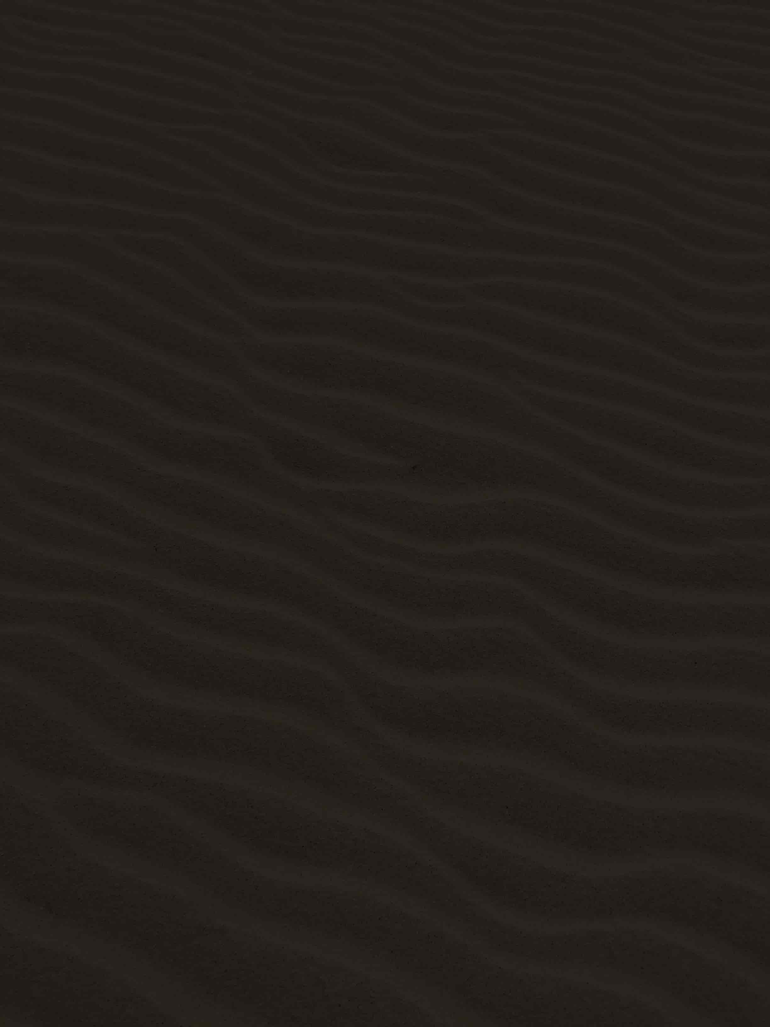
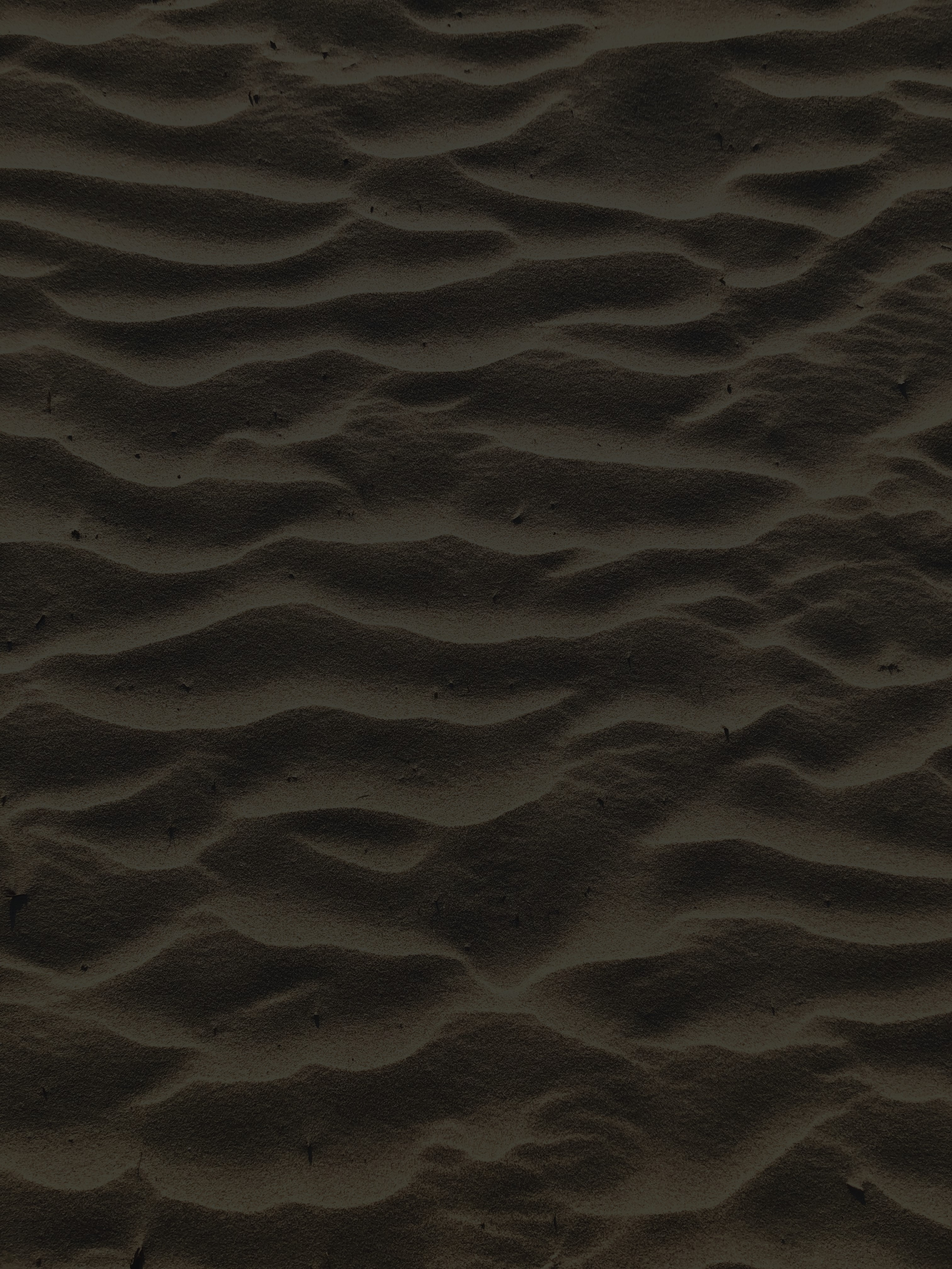
'daily-done'

diff --git a/src/components/weather-info/daily/Daily.tsx b/src/components/weather-info/daily/Daily.tsx
@@ -11,8 +11,20 @@ function Daily({ city, YOUR_API_KEY }) {
     const fetchedWeatherData = await fetch(weekThree)
     const data = await fetchedWeatherData.json()
     setWeatherForecast(data.forecast.forecastday)
-    console.log(data, 'current working on Now') 
+    console.log(data, 'current working on Now')
   }
+
+  const surferImage = (id) => {
+    if (id === 0) {
+      return 'weather-container'
+    } else if (id === 1) {
+      return 'weather-container'
+    } else if (id === 2) {
+      return 'weather-container'
+    }
+  }
+
+  const stylesArray: any = ['daily-container1', 'daily-container2', 'daily-container3']
 
   useEffect(() => {
     weather()
@@ -21,19 +33,21 @@ function Daily({ city, YOUR_API_KEY }) {
   return (
     <div className='daily-position' id='Daily'>
       <p className='daily-top-header'>The Next Three Days...</p>
- 
-      <div className='daily-outer-container'>
-        {weatherForecast && weatherForecast.map((item) => 
-          <div className='daily-container'>
-            <div className='daily-header'>
-              <p className='daily-date'>{item.date}</p>
-              <img src={item.day.condition.icon} className='day-icon' alt="dad" />
-              <p className='daily-desc'>{item.day.condition.text}</p>
-            </div>
 
-            <DailyInfo item={item} />
-          </div>
-        )} 
+      <div className='daily-outer-container'>
+
+
+        {weatherForecast && weatherForecast.map((item, id) =>
+            <div className={stylesArray[id]}>
+              <div className='daily-header'>
+                <p className='daily-date'>{item.date}</p>
+                <img src={item.day.condition.icon} className='day-icon' alt="dad" />
+                <p className='daily-desc'>{item.day.condition.text}</p>
+              </div>
+
+              <DailyInfo item={item} />
+            </div>
+        )}
       </div>
 
     </div>

diff --git a/src/components/weather-info/daily/x-daily.sass b/src/components/weather-info/daily/x-daily.sass
@@ -13,7 +13,7 @@
   justify-content: center
   padding-bottom: 10rem
 
-.daily-container
+.daily-container1,  .daily-container2,  .daily-container3
   background: rgba(53, 1, 158, .0)
   transition: 0.2s linear
   border-style: solid
@@ -22,10 +22,29 @@
   border-radius: 5px
   width: 18vw
 
-.daily-container:hover
-  transition: 0.5s linear
-  opacity: 1
-  background: #35019e
+.daily-container1
+  background-position: 50%
+.daily-container3
+  background-position: 20%
+
+
+.daily-container1:hover
+  background: url('../../../assets/images/s3.jpg')
+  background-size: cover
+  transition: background-position 1s
+  background-position: 20%
+
+.daily-container2:hover
+  background: url('../../../assets/images/s11.jpg')
+  background-size: cover
+  transition: background-position 1s
+  background-position: 50%
+
+.daily-container3:hover
+  background: url('../../../assets/images/s9.jpg')
+  background-size: cover
+  transition: background-position 1s
+  background-position: 50%
 
 .daily-header
   text-align: center

diff --git a/src/components/top-section/image-section/ImageSection.tsx b/src/components/top-section/image-section/ImageSection.tsx
@@ -19,13 +19,11 @@ function SearchBar({ weatherLocation, weatherCurrent, city }) {
 
   // useEffect(() => {
   //   placesImage()
-  // }, [])
+  // }, []) 
 
   return (
     <div className="top-image">
       <div className="image-bg">  
-        {/* <img src={imageDisplay} alt="" /> */}
-        {/* {imageDisplay} */}
         <div className='top-container'>
           <p className='top-name'>{weatherLocation && weatherLocation.name}</p>
           <p className='top-local'>{weatherLocation && weatherLocation.localtime}</p>

diff --git a/src/components/navbar/Navbar.tsx b/src/components/navbar/Navbar.tsx
@@ -32,10 +32,10 @@ function Navbar(props) {
           <div style={{ display: 'flex', alignItems: 'center' }}>
             <BsCloud
               strokeWidth='.5'
-              color='#971414'
+              color='#FE0000'
               size={width < 500 ? 20 : 25}
             />
-            <p className='nav-header'>QuickWeather</p>
+            <p className='nav-header'>BeachWeather</p>
           </div>
 
           <MobileNav

diff --git a/src/components/top-section/image-section/x-imgSection.sass b/src/components/top-section/image-section/x-imgSection.sass
@@ -1,5 +1,5 @@
 .top-image
-  background-image: url('../../../assets/images/winter.jpg')
+  background-image: url('../../../assets/images/beach.jpg')
   background-size: cover
   background-position: center
   height: 33vh
@@ -9,7 +9,7 @@
   z-index: 0
 
 .image-bg
-  background: rgba(0, 0, 0, 0.611) 
+  background: rgba(0, 0, 0, 0.303) 
   height: 33vh
   width: 100%
 

diff --git a/public/index.html b/public/index.html
@@ -24,7 +24,7 @@
       work correctly both with client-side routing and a non-root public URL.
       Learn how to configure a non-root public URL by running `npm run build`.
     -->
-    <title>QuickWeather</title>
+    <title>BeachWeather</title>
   </head>
   <body>
     <noscript>You need to enable JavaScript to run this app.</noscript>

diff --git a/src/components/weather-info/hourly/Hourly.tsx b/src/components/weather-info/hourly/Hourly.tsx
@@ -19,7 +19,7 @@ function Hourly({ YOUR_API_KEY, city }) {
     setWeatherLocationTom(data.forecast.forecastday[1].hour)
     setWeatherLocationNext(data.forecast.forecastday[2].hour)
   }
-
+ 
   useEffect(() => { 
     weather()
   }, [city])

diff --git a/src/style.sass b/src/style.sass
@@ -20,9 +20,7 @@ html
 
 body
   background: url('./assets/images/sand1.jpg') 
-  background-size: contain
-  height: 2.5rem 
-  width: 2.5rem
+  background-size: cover
 
 h1
   color: #cecece 
